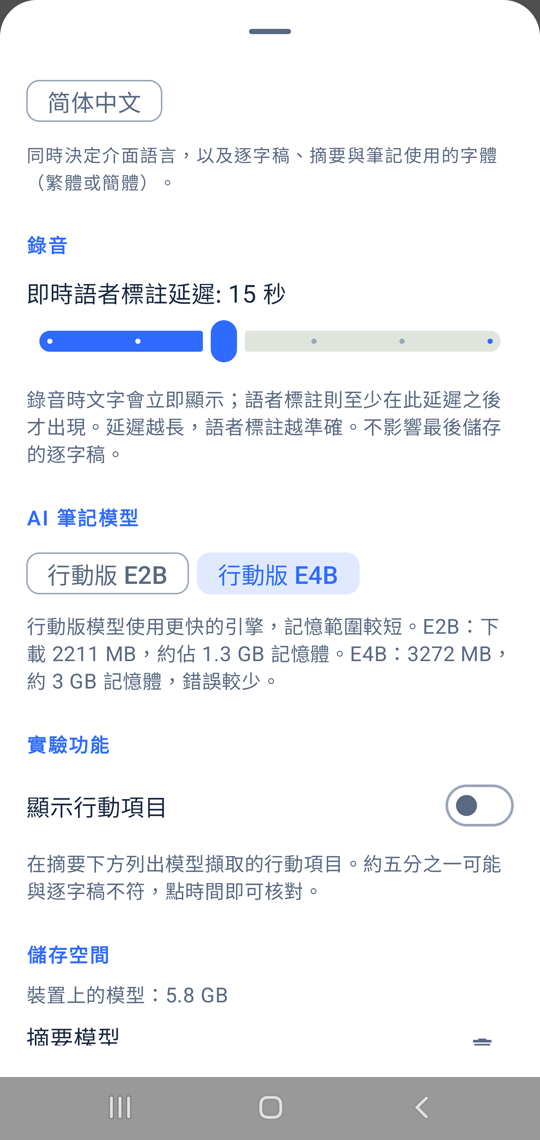
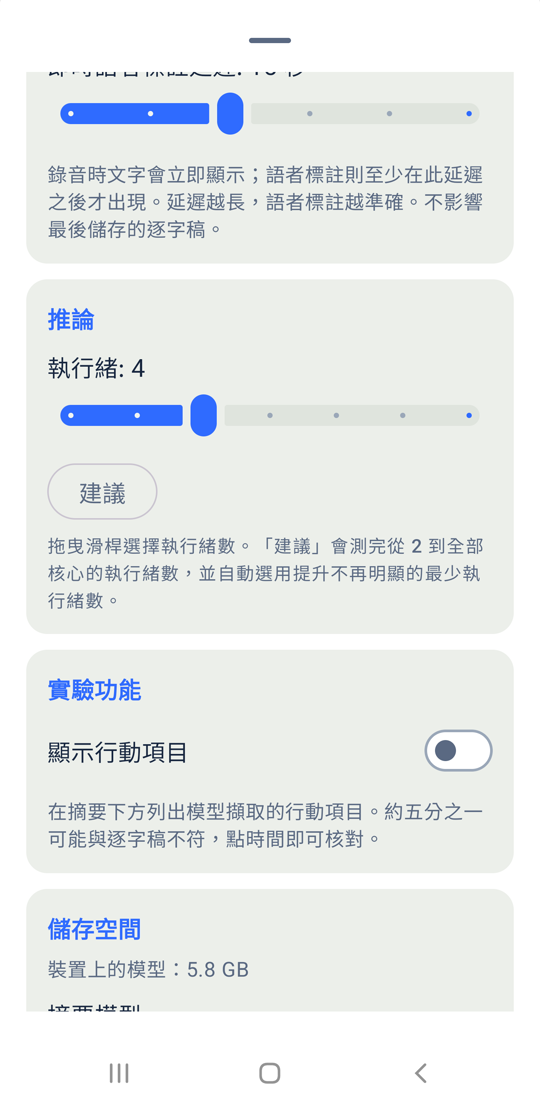
Settings: one card per topic, everyday options first, benchmark chart removed; guide screenshots; 0.50.3
Claude-Session: https://claude.ai/code/session_01KsCgNEd7UM8Bv5a1a9GKev

diff --git a/app/src/main/java/studio/voxsum/ui/SettingsContent.kt b/app/src/main/java/studio/voxsum/ui/SettingsContent.kt
@@ -2,6 +2,8 @@ package studio.voxsum.ui
 
 import androidx.compose.foundation.clickable
 import androidx.compose.foundation.background
+import androidx.compose.foundation.shape.RoundedCornerShape
+import androidx.compose.foundation.layout.ColumnScope
 import androidx.compose.ui.draw.clip
 import androidx.compose.foundation.layout.Arrangement
 import androidx.compose.foundation.layout.size
@@ -90,12 +92,12 @@ fun SettingsContent(
     onUpdateFound: (UpdateInfo) -> Unit = {},
 ) {
     val pal = LocalVoxSumPalette.current
-    Column(Modifier.padding(4.dp), verticalArrangement = Arrangement.spacedBy(4.dp)) {
-        // (0) Appearance — theme selector (Auto follows the OS; E-ink is a manual e-paper theme).
-        Section(stringResource(R.string.settings_appearance))
+    Column(Modifier.padding(4.dp), verticalArrangement = Arrangement.spacedBy(12.dp)) {
+        val ctx = androidx.compose.ui.platform.LocalContext.current
+        // Everyday choices first (look, language, the notes model), tuning and housekeeping after.
+        Section(stringResource(R.string.settings_appearance)) {
         AppearanceSelector(enabled)
         FontScaleSlider(enabled)
-        val ctx = androidx.compose.ui.platform.LocalContext.current
         var hwOn by remember { mutableStateOf(studio.voxsum.core.config.ThemeStore.loadHwMonitor(ctx)) }
         SwitchRow(stringResource(R.string.settings_hw_monitor), hwOn, enabled) {
             hwOn = it; studio.voxsum.core.config.ThemeStore.saveHwMonitor(ctx, it)
@@ -105,13 +107,9 @@ fun SettingsContent(
             style = MaterialTheme.typography.labelSmall,
             color = pal.Slate400,
         )
+        }
 
-        Section(stringResource(R.string.settings_inference))
-        InferencePanel(enabled)
-
-        // One choice for the interface AND every Chinese text the app produces: the strings switch
-        // live, and the Han script (Traditional / Simplified) follows the language.
-        Section(stringResource(R.string.settings_language))
+        Section(stringResource(R.string.settings_language)) {
         val lang = LocalLanguageController.current
         FlowRow(horizontalArrangement = Arrangement.spacedBy(6.dp)) {
             listOf(
@@ -143,12 +141,13 @@ fun SettingsContent(
             color = pal.Slate400,
             modifier = Modifier.padding(top = 2.dp),
         )
+        }
 
-        // Recording.
-        Section(stringResource(R.string.settings_recording))
-        // The engine always separates speakers (one fused pass); only how late the LIVE view freezes
-        // a line's speaker is a choice.
-        // 5..30 s in 5 s steps (steps = 4 intermediate stops).
+        Section(stringResource(R.string.settings_reader_model)) {
+        ReaderModelSelector(config.llmModelId, enabled) { onChange(config.copy(llmModelId = it)) }
+        }
+
+        Section(stringResource(R.string.settings_recording)) {
         SliderRow(
             stringResource(R.string.settings_speaker_delay),
             config.speakerDelaySec.toFloat(),
@@ -162,12 +161,13 @@ fun SettingsContent(
             style = MaterialTheme.typography.bodySmall,
             color = pal.Slate400,
         )
+        }
 
-        Section(stringResource(R.string.settings_reader_model))
-        ReaderModelSelector(config.llmModelId, enabled) { onChange(config.copy(llmModelId = it)) }
+        Section(stringResource(R.string.settings_inference)) {
+            InferencePanel(enabled)
+        }
 
-        // Experimental — features whose output is not reliable enough to be on by default.
-        Section(stringResource(R.string.settings_experimental))
+        Section(stringResource(R.string.settings_experimental)) {
         SwitchRow(stringResource(R.string.settings_show_actions), config.showActionItems, enabled) {
             onChange(config.copy(showActionItems = it))
         }
@@ -176,18 +176,19 @@ fun SettingsContent(
             style = MaterialTheme.typography.bodySmall,
             color = pal.Slate400,
         )
+        }
 
-        // (6) Storage — downloaded models, per-item delete (each re-downloads on next use).
-        Section(stringResource(R.string.settings_storage))
+        Section(stringResource(R.string.settings_storage)) {
         StoragePanel(enabled, summaryReady = LlmRegistry.byId(config.llmModelId).id in readyLlm, llmId = config.llmModelId)
+        }
 
-        // (7) Background reliability — keep screen-off runs alive across OEM power policies.
-        Section(stringResource(R.string.settings_background))
-        BackgroundReliabilityPanel(enabled)
+        Section(stringResource(R.string.settings_background)) {
+            BackgroundReliabilityPanel(enabled)
+        }
 
-        // (8) About — version, license, and open-source components.
-        Section(stringResource(R.string.settings_about))
-        AboutContent(onUpdateFound)
+        Section(stringResource(R.string.settings_about)) {
+            AboutContent(onUpdateFound)
+        }
     }
 }
 
@@ -506,17 +507,24 @@ private val COMPONENT_LICENSES = listOf(
     R.string.lic_compose to "Apache-2.0",
 )
 
+/** A titled card: one topic per card, so the page reads as a few groups rather than one long list. */
+@Composable
+private fun Section(title: String, content: @Composable ColumnScope.() -> Unit) {
+    val pal = LocalVoxSumPalette.current
+    Column(
+        Modifier.fillMaxWidth().clip(RoundedCornerShape(16.dp)).background(pal.InsetSurface).padding(16.dp),
+        verticalArrangement = Arrangement.spacedBy(6.dp),
+    ) {
+        Text(title, style = MaterialTheme.typography.titleSmall, color = pal.Sky, fontWeight = FontWeight.SemiBold)
+        content()
+    }
+}
+
+/** Title only, for the hidden backend picker inside the Inference card. */
 @Composable
 private fun Section(title: String) {
-    val pal = LocalVoxSumPalette.current
-    Text(
-        title.uppercase(),
-        style = MaterialTheme.typography.labelMedium,
-        color = pal.Sky,
-        fontWeight = FontWeight.SemiBold,
-        letterSpacing = 1.sp,
-        modifier = Modifier.padding(top = 22.dp, bottom = 4.dp),
-    )
+    Text(title, style = MaterialTheme.typography.titleSmall, color = LocalVoxSumPalette.current.Sky,
+        fontWeight = FontWeight.SemiBold, modifier = Modifier.padding(top = 8.dp))
 }
 
 @Composable
@@ -600,30 +608,6 @@ private fun InferencePanel(enabled: Boolean) {
         },
     ) { draft = it }
     if (profile.capped) Text(stringResource(R.string.settings_inference_capped), style = MaterialTheme.typography.bodySmall, color = pal.Slate400)
-    if (profile.benchScores.isNotEmpty()) {
-        // Compact column chart: one column per measured thread count, scaled to the best; the count in use is highlighted.
-        val best = profile.benchScores.values.max().coerceAtLeast(1.0)
-        Text(stringResource(R.string.settings_inference_bench_title), style = MaterialTheme.typography.labelMedium, color = pal.Slate400)
-        Row(Modifier.fillMaxWidth(), horizontalArrangement = Arrangement.spacedBy(5.dp)) {
-            profile.benchScores.entries.sortedBy { it.key }.forEach { (n, v) ->
-                val used = n == profile.threads
-                val frac = (v / best).toFloat().coerceIn(0.04f, 1f)
-                Column(Modifier.weight(1f), horizontalAlignment = androidx.compose.ui.Alignment.CenterHorizontally) {
-                    Text("${(v / best * 100).roundToInt()}", style = MaterialTheme.typography.labelSmall,
-                        color = if (used) pal.Sky else pal.Slate400.copy(alpha = 0.8f))
-                    androidx.compose.foundation.layout.Box(Modifier.fillMaxWidth().height(34.dp), contentAlignment = androidx.compose.ui.Alignment.BottomCenter) {
-                        androidx.compose.foundation.layout.Box(
-                            Modifier.fillMaxWidth(0.7f).fillMaxHeight(frac)
-                                .clip(androidx.compose.foundation.shape.RoundedCornerShape(topStart = 4.dp, topEnd = 4.dp))
-                                .background(if (used) pal.Sky else pal.Slate400.copy(alpha = 0.4f)),
-                        )
-                    }
-                    Text("$n", style = MaterialTheme.typography.labelSmall, fontWeight = if (used) FontWeight.Bold else FontWeight.Normal,
-                        color = if (used) pal.Sky else pal.Slate400)
-                }
-            }
-        }
-    }
     // The reader on each backend: a card per backend, GPU selectable only once their test passed.
     val hwKey = remember { studio.voxsum.core.hw.HwInfo.benchKey(ctx) }
     var results by remember { mutableStateOf(studio.voxsum.core.hw.BackendBench.results(ctx, hwKey)) }

diff --git a/docs/USER_GUIDE.md b/docs/USER_GUIDE.md
@@ -199,7 +199,7 @@ flowchart TD
 | 外觀主題：自動／淺色／深色／電子紙 | 立即套用 | ✅ 自動（SettingsContentTest） |
 | 文字大小（85–150%） | 整個 App 的文字（含對話框）立即放大或縮小，疊加於系統字型大小；重新開啟 App 後保留 | ✅ 手動 |
 | 硬體狀態列 | 錄音與 AI 閱讀時，計時器下方顯示 CPU／記憶體／電池細條；數值過高時轉紅；預設開啟 | ✅ 手動 |
-| 推論：執行緒滑桿（2 至全部核心）與「建議」 | 拖曳滑桿手動指定；「建議」測完 2 至全部核心的執行緒數，自動選用提升不再明顯的最少執行緒數並移動滑桿，結果以直條圖顯示各執行緒數的相對速度 | ✅ 手動 |
+| 推論：執行緒滑桿（2 至全部核心）與「建議」 | 拖曳滑桿手動指定；「建議」測完 2 至全部核心的執行緒數，自動選用提升不再明顯的最少執行緒數並移動滑桿 | ✅ 手動 |
 | 語言：跟隨系統／English／繁體中文／简体中文 | 介面與產生的文字一起切換 | ✅ 手動、✅ 自動（SettingsContentTest） |
 | 即時語者標註延遲（5–30 秒） | 錄音時語者標籤出現的延遲；重新開啟 App 後保留 | ✅ 手動 |
 | AI 筆記模型：行動版 E2B／行動版 E4B | 下次閱讀時使用所選模型（未下載時先下載）；E4B 只在 RAM 8 GB 以上的手機可選 | ✅ 手動（Note 10+：E2B、E4B） |
